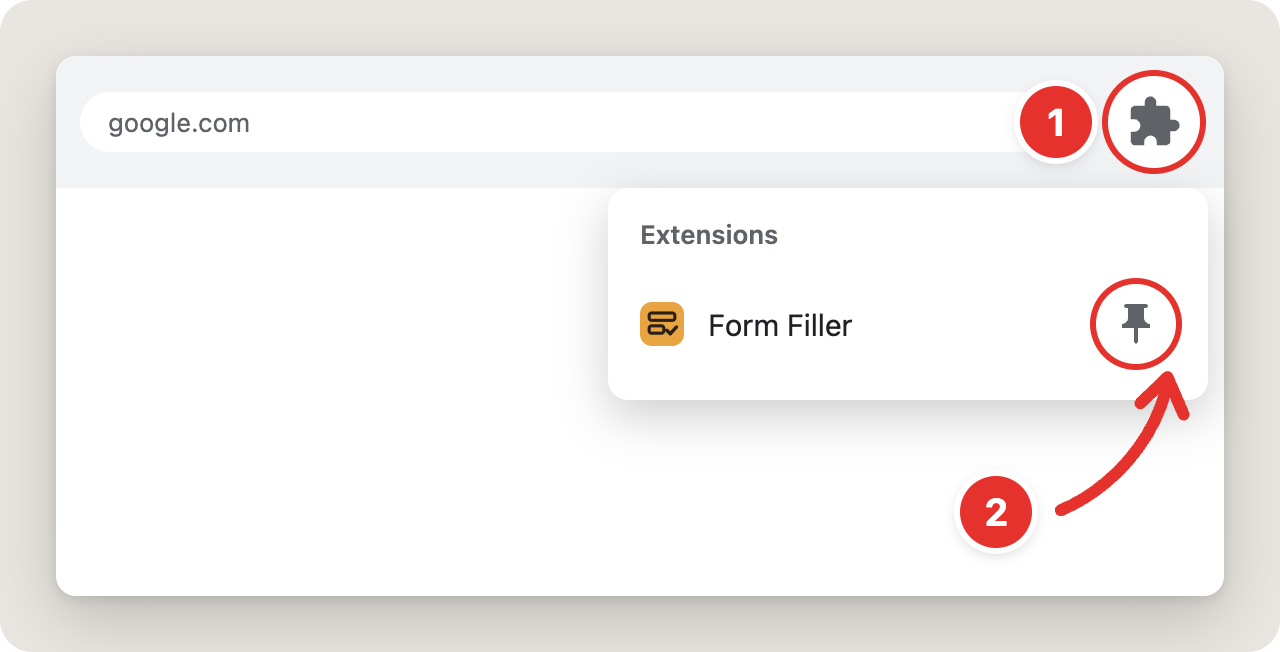
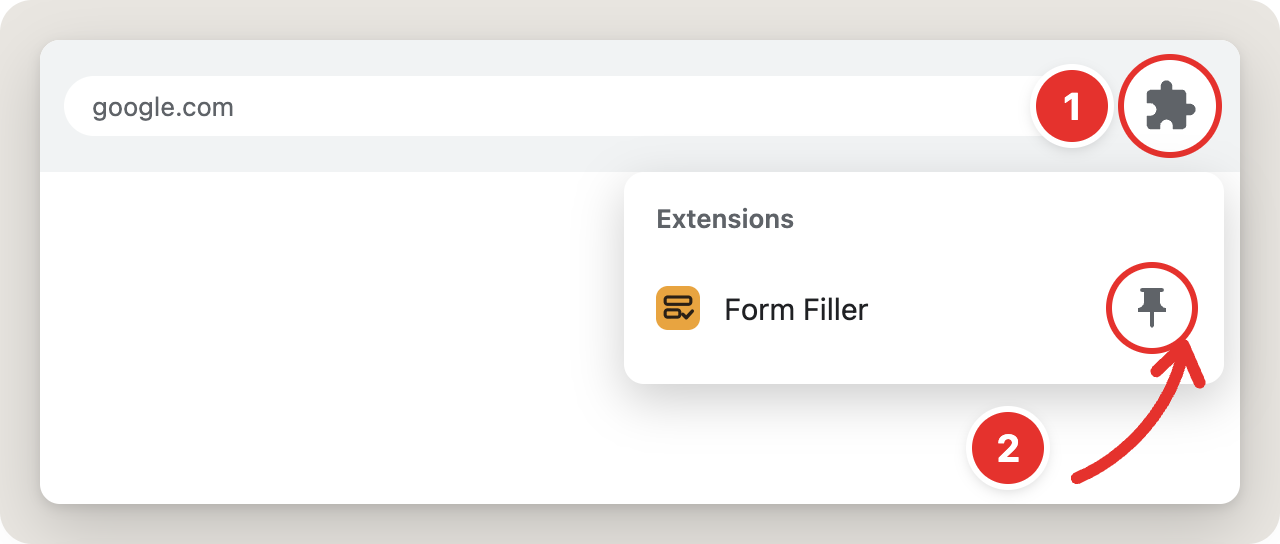
Welcome: compact header and step titles, shorter illustrations (step 3 above the fold)

Changed region(s): [[0.0312, 0.0625, 0.9688, 0.9375]]

diff --git a/welcome/index.html b/welcome/index.html
@@ -12,23 +12,23 @@
   :root { --bg: #1b1815; --card: #24201c; --line: #3a342d; --fg: #f3ede4; --muted: #b6ab9c; --accent: #e8a33d; }
   * { box-sizing: border-box; }
   body { margin: 0; background: var(--bg); color: var(--fg); font: 17px/1.55 "Instrument Sans", -apple-system, "Segoe UI", Roboto, Arial, sans-serif; }
-  .shell { max-width: 780px; margin: 0 auto; padding: 48px 20px 64px; }
-  header { display: flex; align-items: center; gap: 12px; margin-bottom: 36px; }
-  .mark { width: 40px; height: 40px; flex: none; }
+  .shell { max-width: 780px; margin: 0 auto; padding: 24px 20px 56px; }
+  header { display: flex; align-items: center; gap: 10px; margin-bottom: 20px; }
+  .mark { width: 32px; height: 32px; flex: none; }
   .brand { font-weight: 600; font-size: 18px; }
-  h1 { font-size: 40px; line-height: 1.15; letter-spacing: -0.02em; margin: 0 0 10px; }
-  .lead { color: var(--muted); font-size: 19px; margin: 0 0 40px; }
-  .ok { display: inline-flex; align-items: center; gap: 8px; color: #8fd4a4; font-weight: 600; margin-bottom: 14px; }
-  ol.steps { list-style: none; padding: 0; margin: 0; display: grid; gap: 40px; }
-  .step h2 { display: flex; gap: 14px; align-items: baseline; font-size: 22px; margin: 0 0 16px; letter-spacing: -0.01em; }
-  .step h2.pair { margin-bottom: 10px; }
-  .num { flex: none; width: 34px; height: 34px; border-radius: 50%; background: var(--accent); color: #2a2016; display: grid; place-items: center; font-size: 17px; font-weight: 700; transform: translateY(-2px); }
+  h1 { font-size: 30px; line-height: 1.15; letter-spacing: -0.02em; margin: 0 0 6px; }
+  .lead { color: var(--muted); font-size: 17px; margin: 0 0 22px; }
+  .ok { display: inline-flex; align-items: center; gap: 8px; color: #8fd4a4; font-weight: 600; font-size: 15px; margin-bottom: 6px; }
+  ol.steps { list-style: none; padding: 0; margin: 0; display: grid; gap: 24px; }
+  .step h2 { display: flex; gap: 12px; align-items: center; font-size: 18px; line-height: 1.3; margin: 0 0 10px; letter-spacing: -0.01em; }
+  .step h2.pair { margin-bottom: 6px; }
+  .num { flex: none; width: 28px; height: 28px; border-radius: 50%; background: var(--accent); color: #2a2016; display: grid; place-items: center; font-size: 15px; font-weight: 700; }
   .shot { display: block; width: 100%; max-width: 640px; height: auto; border-radius: 16px; }
-  .after { margin-top: 44px; padding: 20px 22px; border: 1px solid var(--line); border-radius: 14px; background: var(--card); color: var(--muted); }
+  .after { margin-top: 28px; padding: 20px 22px; border: 1px solid var(--line); border-radius: 14px; background: var(--card); color: var(--muted); }
   .after b { color: var(--fg); }
   footer { margin-top: 56px; color: var(--muted); font-size: 14px; display: flex; gap: 20px; flex-wrap: wrap; }
   footer a { color: var(--muted); }
-  @media (max-width: 560px) { h1 { font-size: 30px; } .lead { font-size: 17px; } }
+  @media (max-width: 560px) { h1 { font-size: 26px; } .step h2 { font-size: 17px; } }
 </style>
 </head>
 <body>
@@ -46,11 +46,11 @@
     <li class="step">
       <h2 class="pair"><span class="num">1</span>Click the puzzle icon in the top-right corner of Chrome</h2>
       <h2><span class="num">2</span>Find Form Filler and click the pin</h2>
-      <img class="shot" src="steps-1-2.png" width="640" height="326" alt="The puzzle icon in the Chrome toolbar, and the pin button next to Form Filler in the extensions menu">
+      <img class="shot" src="steps-1-2.png" width="640" height="272" alt="The puzzle icon in the Chrome toolbar, and the pin button next to Form Filler in the extensions menu">
     </li>
     <li class="step">
       <h2><span class="num">3</span>Click the Form Filler icon to get started</h2>
-      <img class="shot" src="step-3.png" width="640" height="272" alt="The Form Filler icon pinned to the toolbar">
+      <img class="shot" src="step-3.png" width="640" height="210" alt="The Form Filler icon pinned to the toolbar">
     </li>
   </ol>
 

diff --git a/tools/shots.html b/tools/shots.html
@@ -4,7 +4,7 @@
    Rendered to welcome/step-*.png by tools/render-shots.js. Methodology: module 3, step 4. */
 * { box-sizing: border-box; margin: 0; }
 body { background: transparent; font: 14px/1.4 -apple-system, BlinkMacSystemFont, "Segoe UI", Roboto, Arial, sans-serif; }
-.card { width: 640px; padding: 28px; background: #e9e6e1; border-radius: 16px; position: relative; }
+.card { width: 640px; padding: 20px; background: #e9e6e1; border-radius: 16px; position: relative; }
 .win { background: #fff; border-radius: 10px; box-shadow: 0 12px 32px rgba(0,0,0,.18), 0 2px 6px rgba(0,0,0,.1); overflow: visible; position: relative; }
 .bar { display: flex; align-items: center; gap: 10px; padding: 10px 12px; background: #f1f3f4; border-radius: 10px 10px 0 0; }
 .omni { flex: 1; height: 30px; border-radius: 15px; background: #fff; display: flex; align-items: center; padding: 0 14px; color: #5f6368; font-size: 13px; }
@@ -12,7 +12,7 @@ body { background: transparent; font: 14px/1.4 -apple-system, BlinkMacSystemFont
 .tb.big { width: 46px; height: 46px; background: #fff; box-shadow: 0 0 0 3px #e5322d; }
 .tb svg { width: 20px; height: 20px; }
 .tb.big svg { width: 28px; height: 28px; }
-.page { height: 150px; display: grid; place-items: center; color: #9aa0a6; font-size: 22px; letter-spacing: .5px; }
+.page { height: 104px; display: grid; place-items: center; color: #9aa0a6; font-size: 22px; letter-spacing: .5px; }
 .page b { color: #4285f4; } .page b:nth-child(2) { color: #ea4335; } .page b:nth-child(3) { color: #fbbc05; } .page b:nth-child(4) { color: #4285f4; } .page b:nth-child(5) { color: #34a853; } .page b:nth-child(6) { color: #ea4335; }
 .arrow { position: absolute; width: 90px; height: 70px; }
 .menu { position: absolute; top: 58px; right: 8px; width: 300px; background: #fff; border-radius: 10px; box-shadow: 0 8px 24px rgba(0,0,0,.2); padding: 10px 0; }
@@ -38,20 +38,20 @@ body { background: transparent; font: 14px/1.4 -apple-system, BlinkMacSystemFont
 
 <!-- arrow: its head is the top-right corner of the 90x70 box; the box is placed so the head touches the ringed target -->
 <!-- steps 1 + 2 on one picture: the menu is open under the ringed puzzle, the pin is ringed; numbered badges -->
-<div class="card" id="step-1"><div class="win" style="height:270px">
+<div class="card" id="step-1"><div class="win" style="height:232px">
   <div class="bar"><div class="omni">google.com</div><div class="tb big"><svg><use href="#puzzle"/></svg></div></div>
   <span class="badge" style="right:66px; top:15px">1</span>
   <div class="menu" style="top:66px"><h6>Extensions</h6>
     <div class="item"><svg class="logo"><use href="#logo"/></svg><span class="name">Form Filler</span><span class="pin"><svg><use href="#pin"/></svg></span></div>
   </div>
-  <svg class="arrow" style="right:6px; top:158px; transform: rotate(-12deg)"><use href="#arrow"/></svg>
-  <span class="badge" style="right:96px; top:210px">2</span>
+  <svg class="arrow" style="right:6px; top:150px; transform: rotate(-12deg)"><use href="#arrow"/></svg>
+  <span class="badge" style="right:98px; top:186px">2</span>
 </div></div>
 
 <div class="card" id="step-2"><div class="win">
   <div class="bar"><div class="omni">google.com</div><div class="tb big"><svg><use href="#logo"/></svg></div><div class="tb"><svg><use href="#puzzle"/></svg></div></div>
   <div class="page"><div><b>G</b><b>o</b><b>o</b><b>g</b><b>l</b><b>e</b></div></div>
   <svg class="arrow" style="right:90px; top:56px"><use href="#arrow"/></svg>
-  <span class="badge" style="right:178px; top:112px">3</span>
+  <span class="badge" style="right:178px; top:100px">3</span>
 </div></div>
 </body></html>
